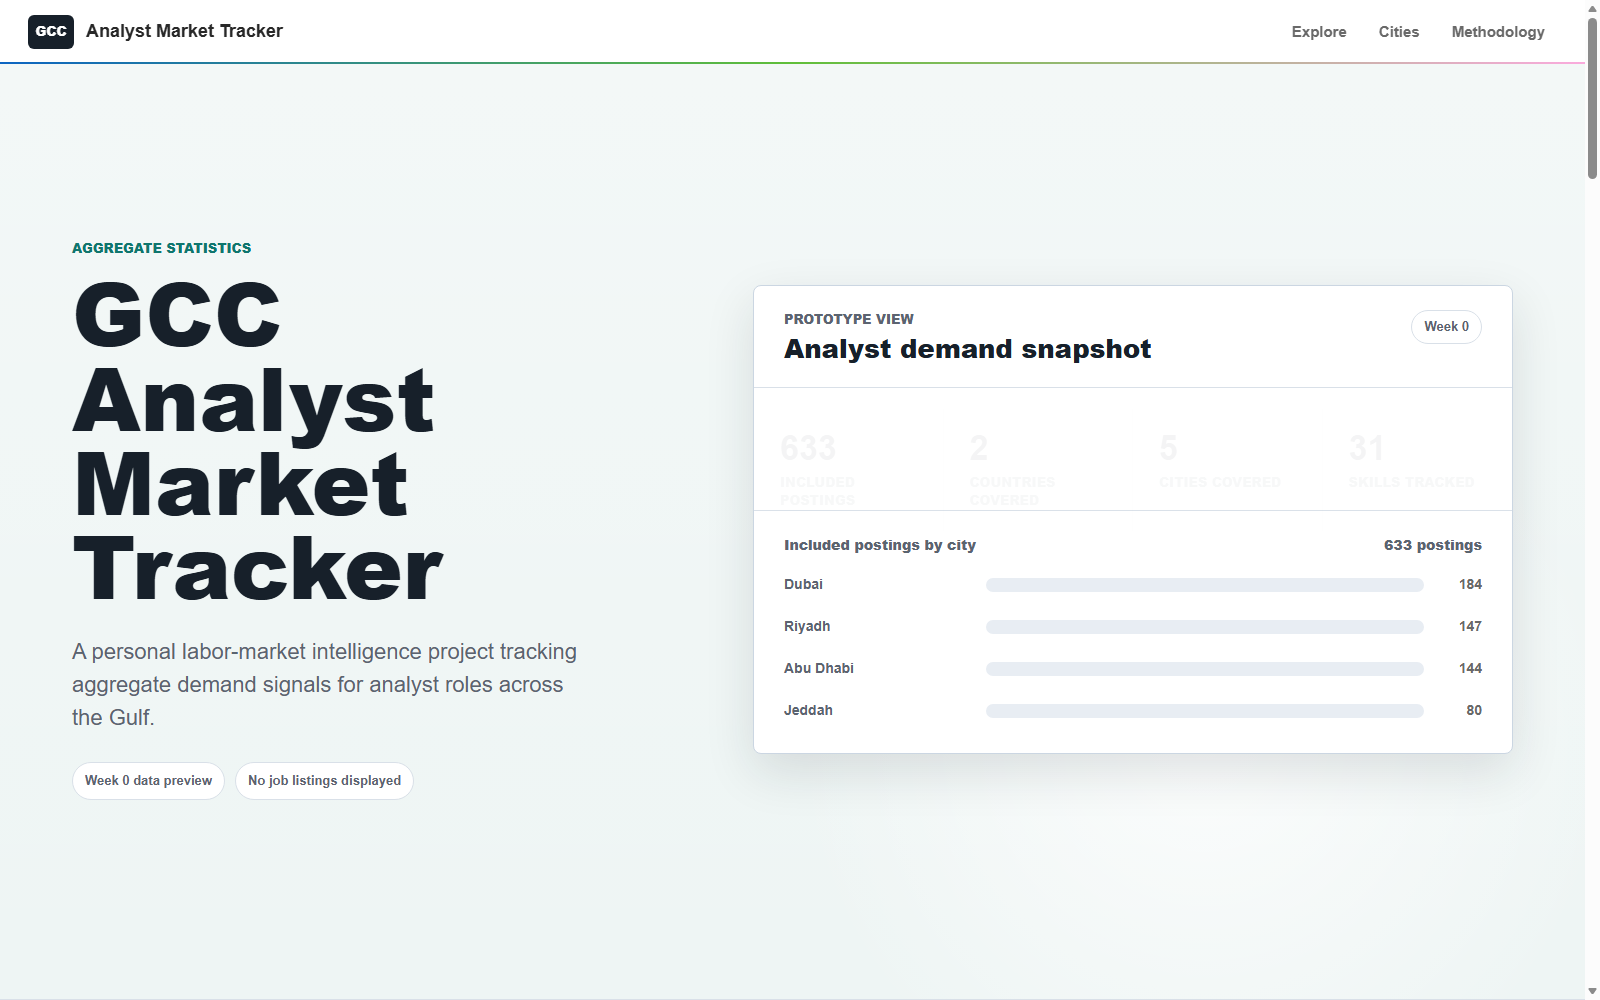
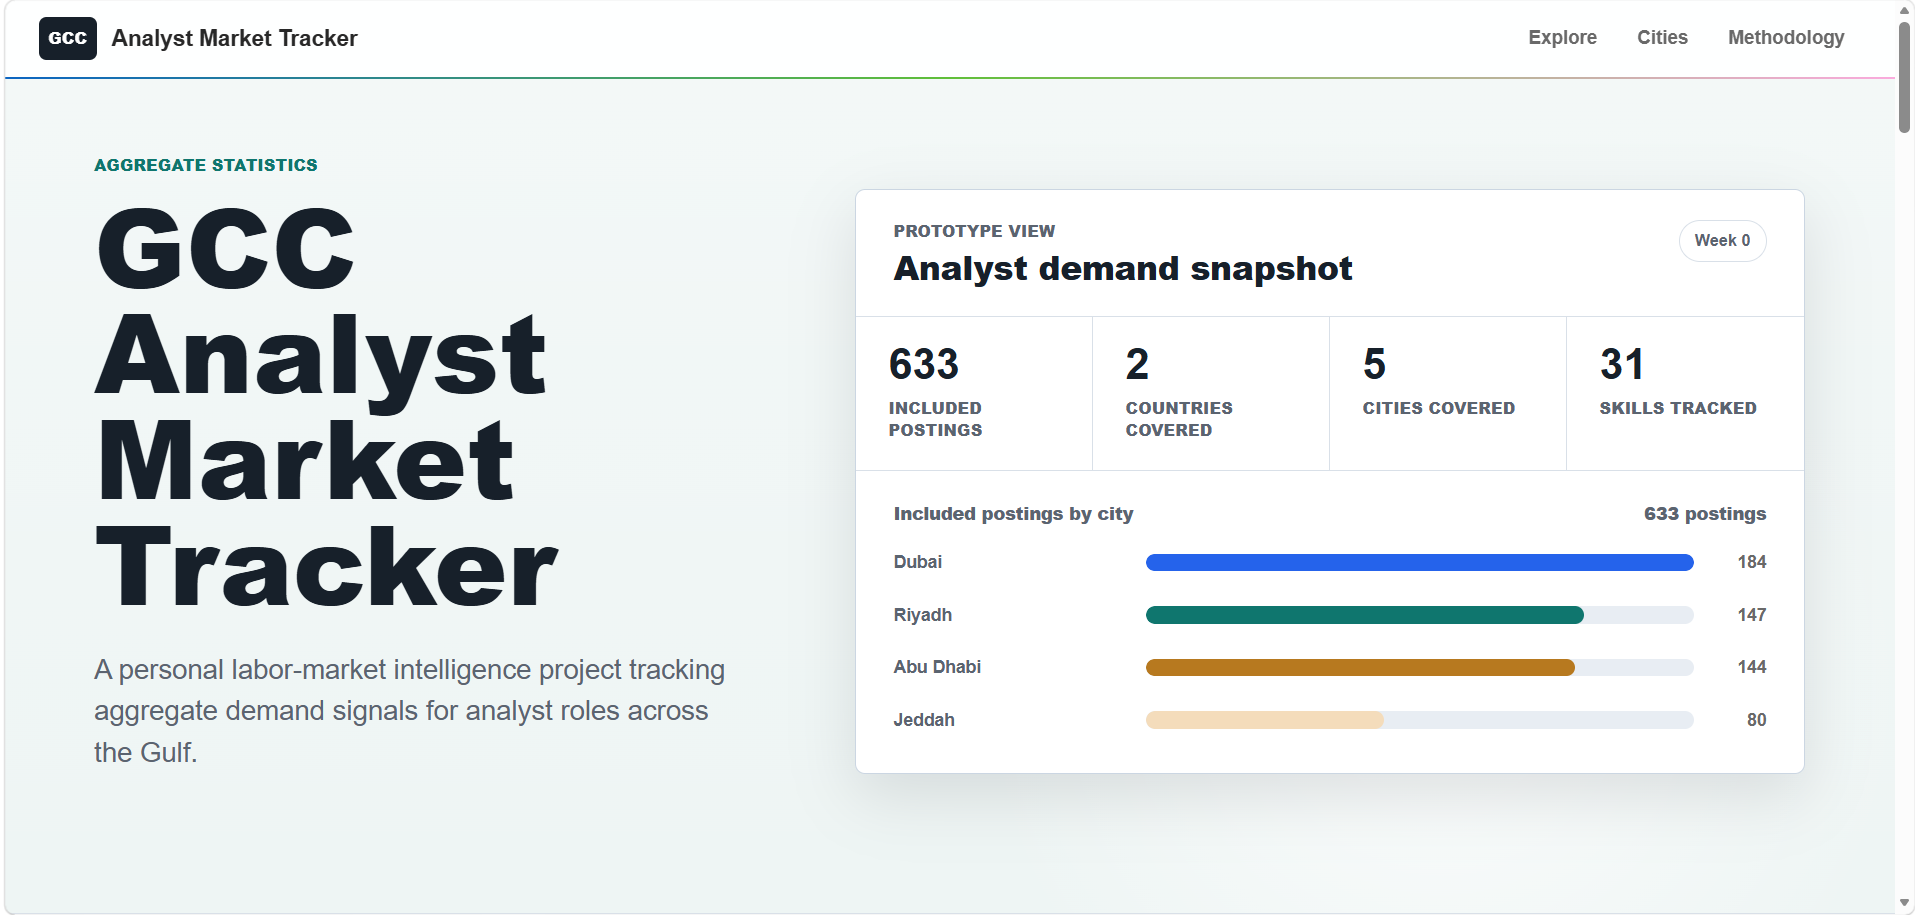
Update dashboard overview screenshot

diff --git a/v1_dashboard/index.html b/v1_dashboard/index.html
@@ -34,10 +34,6 @@
           <p class="hero-lede">
             A personal labor-market intelligence project tracking aggregate demand signals for analyst roles across the Gulf.
           </p>
-          <div class="hero-status" aria-label="Project status">
-            <span>Week 0 data preview</span>
-            <span>No job listings displayed</span>
-          </div>
         </div>
 
         <aside class="hero-panel reveal" aria-label="Week 0 headline metrics">